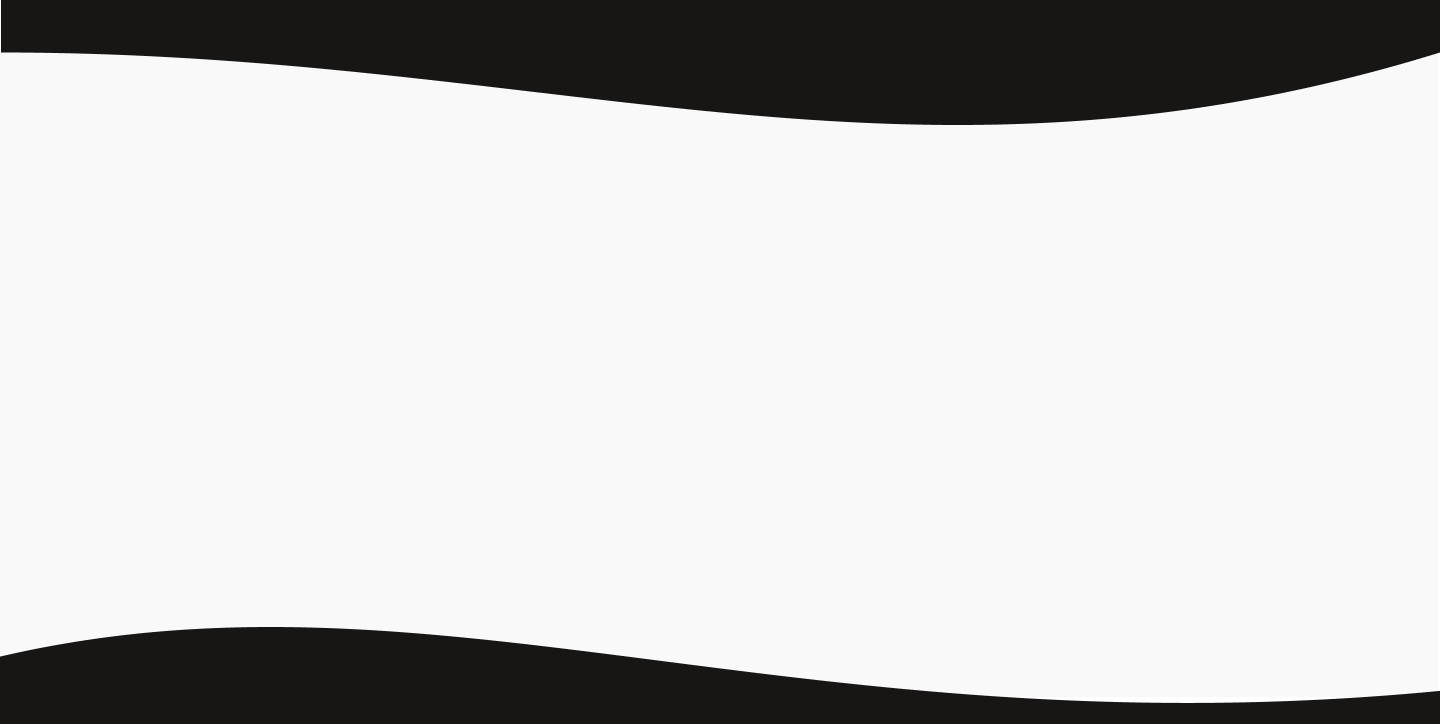
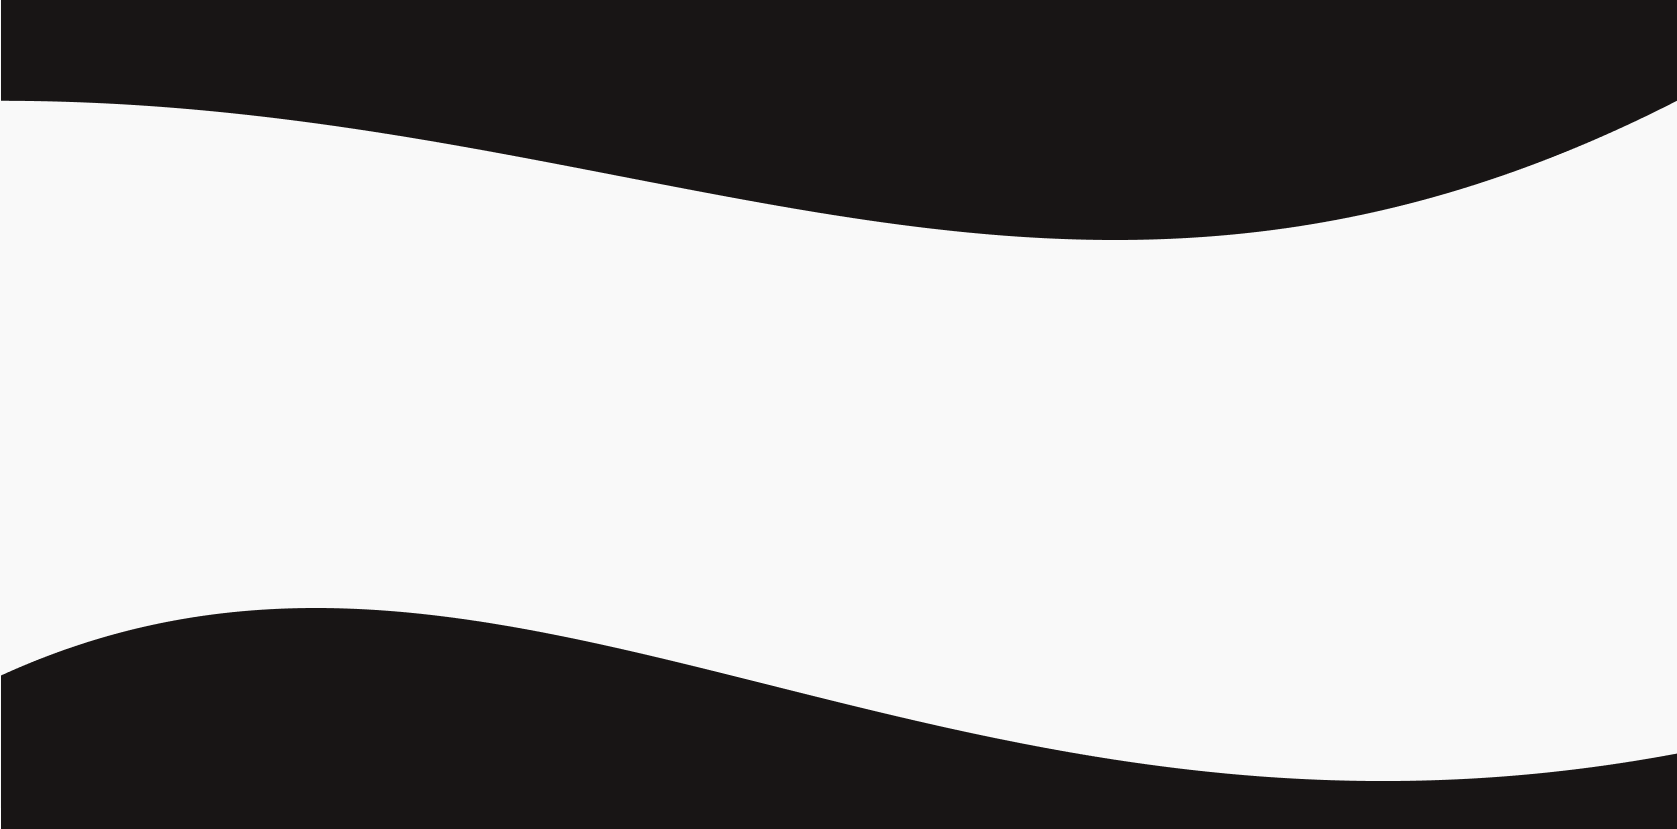
adjusted

Changed region(s): [[0.0, 0.0608, 1.0, 0.3039], [0.0, 0.7293, 1.0, 0.9724]]

diff --git a/transpareser/src/components/paravoce/AnaliseColoracao.tsx b/transpareser/src/components/paravoce/AnaliseColoracao.tsx
@@ -1,5 +1,7 @@
 import React from "react";
 import analise from "/src/assets/images/paravoce/analisecoloracao.png"
+import cima from "/src/assets/images/paravoce/cima.png"
+import baixo from "/src/assets/images/paravoce/baixo.png"
 import Image from "next/image";
 import { voigante, barcelony, holispay } from "@/assets/fonts/fonts";
 import Link from "next/link";
@@ -7,13 +9,17 @@ import Link from "next/link";
 const AnaliseColoracao = () => {
   return (
     <section id="home"
-    className="bg-[url('../assets/images/paravoce/bganalise.png')] bg-center bg-cover justify-center items-center flex flex-col w-full pt-20 md:pt-8 lg:md:pt-2">    
+    className="bg-[#F9F9F9] bg-center bg-cover justify-center items-center flex flex-col w-full">    
+         <Image
+            alt="gallery"
+            className=""
+            src={cima} />
         <div className="flex flex-col md:flex-row items-center justify-center gap-8 md:gap-4 lg:gap-6">
         <div className={`${holispay.className}`}>
-           <p className="md:hidden text-[3rem] text-[#8C0606] tracking-tight text-center pt-24 leading-none px-4">Análise de Coloração</p>
+           <p className="md:hidden text-[3rem] text-[#8C0606] tracking-tight text-center pt-8 leading-none px-4">Análise de Coloração</p>
            </div>
             <p className="md:hidden text-[1rem] px-12 text-center">Para a mulher que deseja conhecer as cores que mais favorecem sua beleza natural, sem deixar de lado sua singularidade e seus estados emocionais</p>
-            <div className="hidden md:block px-6 lg:px-12 md:max-w-[420px] lg:max-w-[580px]">
+            <div className="hidden md:block lg:px-12 md:max-w-[420px] lg:max-w-[580px]">
             <div className={`${holispay.className}`}>
             <p className="text-[3.4rem] lg:text-[3.9rem] text-[#8C0606] tracking-tight px-6 leading-none pb-4 lg:pb-8 text-right">Análise de Coloração</p></div>
             <p className="text-[1.12rem] lg:text-[1.2rem] text-right lg:pl-10">Para a mulher que deseja conhecer as cores que mais favorecem sua beleza natural, sem deixar de lado sua singularidade e seus estados emocionais</p>
@@ -24,6 +30,10 @@ const AnaliseColoracao = () => {
             className="h-[410px] w-[280px] md:w-[270px] lg:w-[300px] md:h-[420px] lg:h-[440px] md:mr-10"
             src={analise} /></Link>
              </div>
+             <Image
+             alt="gallery"
+             className=""
+             src={baixo} />
       </section>
   );
 };
